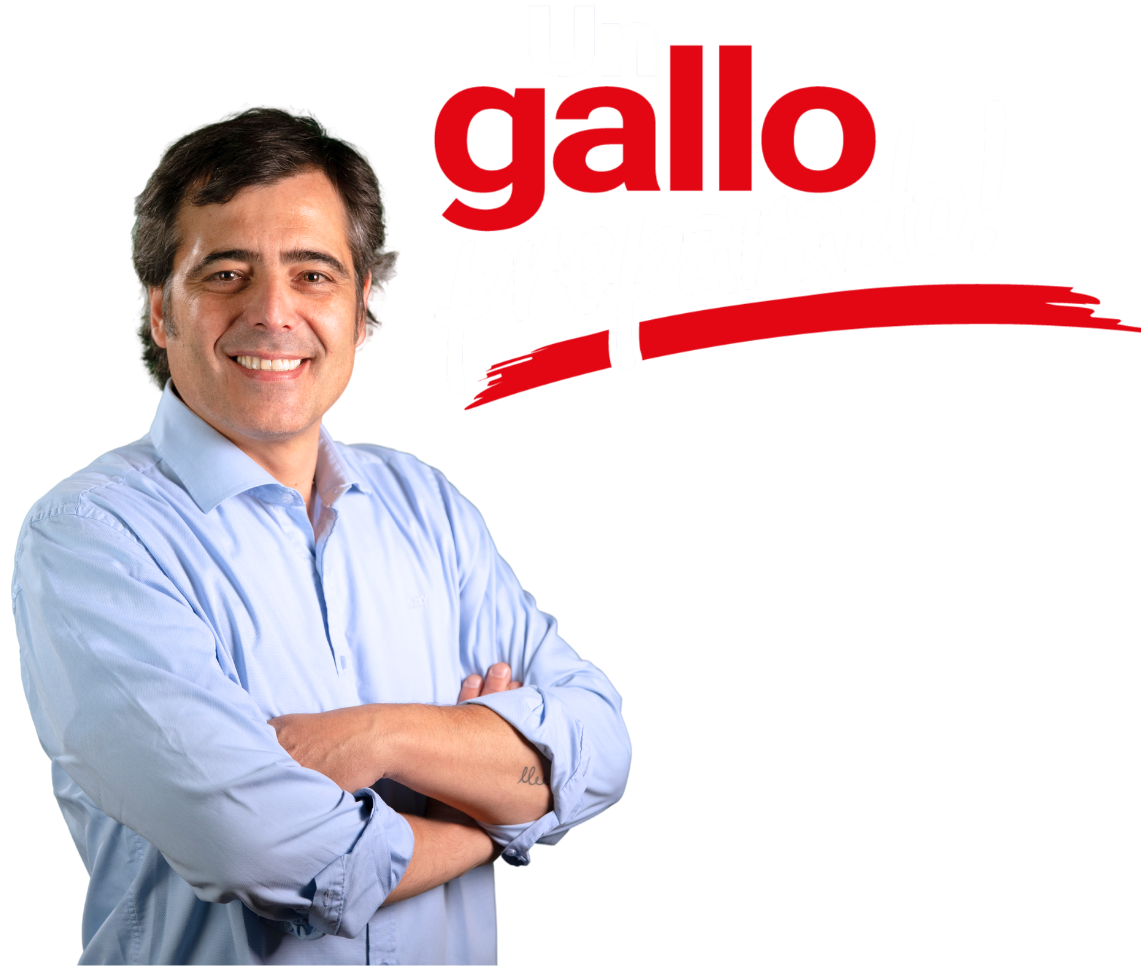
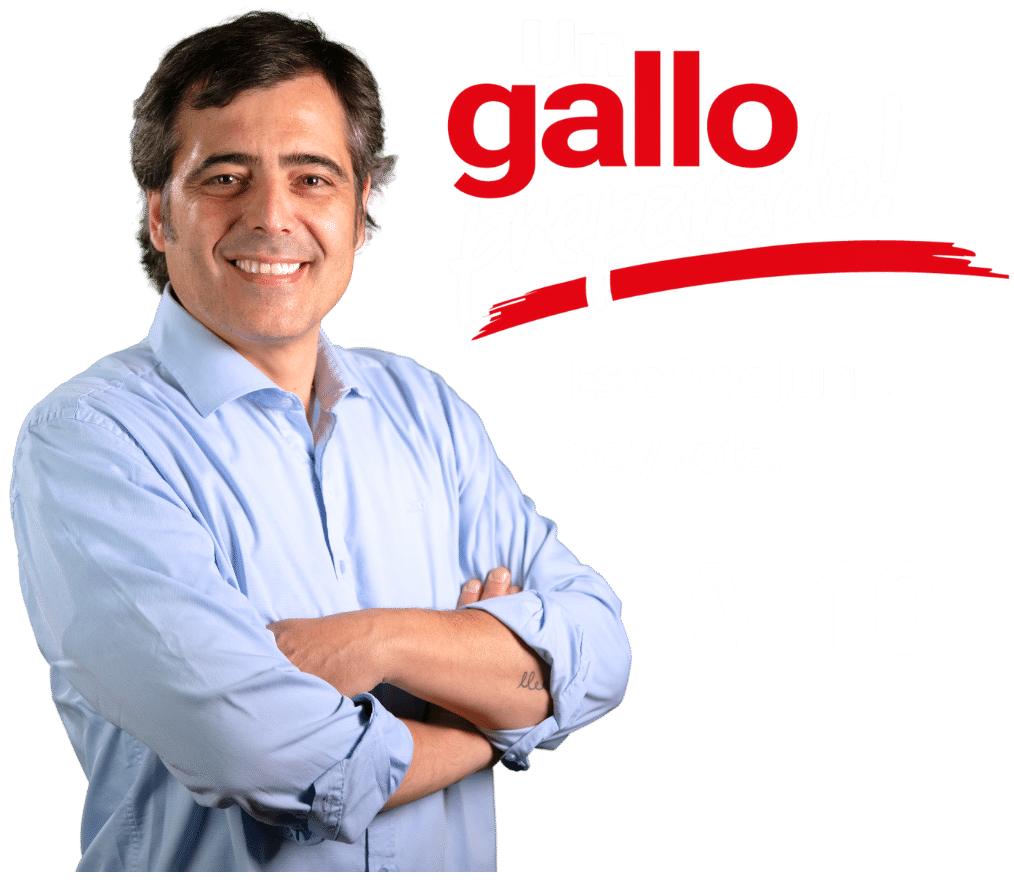
hero beta

diff --git a/apps/sebastian/src/app/components/hero.tsx b/apps/sebastian/src/app/components/hero.tsx
@@ -4,25 +4,25 @@ import Video from './VIdeo';
 
 export default function Hero() {
   return (
-    <div className="bg-blueprimary ">
+    <div className="bg-[#282b6a] ">
       <div className="flex justify-center">
         <Image
           src="/images/fotosebastian.png"
           width={500}
           height={500}
           alt="Picture of the author"
-          className="pt-10 lg:w-5/12 animate-fade-up animate-once animate-duration-[2000ms]"
+          className="p-6 lg:w-5/12 animate-fade-up animate-once animate-duration-[2000ms]"
         />
       </div>
 
       <div className="flex justify-center flex-col">
-        <div className="flex space-x-10 justify-center items-center mb-14">
+        <div className="flex space-x-10 justify-center items-center mt-12">
           <a
             href="#"
             className="block  text-gray-900 transition-all duration-500 hover:text-indigo-600 "
           >
             <svg
-              className="w-[1.688rem] h-[1.688rem] text-redprimary"
+              className="w-12 h-12 text-white"
               xmlns="http://www.w3.org/2000/svg"
               viewBox="0 0 20 20"
               fill="none"
@@ -38,7 +38,7 @@ export default function Hero() {
             className="block  text-gray-900 transition-all duration-500 hover:text-indigo-600 "
           >
             <svg
-              className="w-[1.688rem] h-[1.688rem] text-redprimary "
+              className="w-12 h-12 text-white "
               viewBox="0 0 29 29"
               fill="none"
               xmlns="http://www.w3.org/2000/svg"
@@ -54,7 +54,7 @@ export default function Hero() {
             className="block  text-gray-900 transition-all duration-500 hover:text-indigo-600 "
           >
             <svg
-              className="w-[0.938rem] h-[1.625rem] text-redprimary"
+              className="w-12 h-12 text-white"
               viewBox="0 0 15 26"
               fill="none"
               xmlns="http://www.w3.org/2000/svg"
@@ -70,7 +70,7 @@ export default function Hero() {
             className="block  text-gray-900 transition-all duration-500 hover:text-indigo-600 "
           >
             <svg
-              className="w-[1.875rem] h-[1.375rem] text-redprimary"
+              className="w-12 h-12 text-white"
               viewBox="0 0 30 22"
               fill="none"
               xmlns="http://www.w3.org/2000/svg"
@@ -84,22 +84,25 @@ export default function Hero() {
             </svg>
           </a>
         </div>
-        <Link
-          href="#linkscroll"
-          className="p-2 rounded-lg px-14 mt-12  border-4 font-bold hover:bg-redprimary flex hover:text-white  border-redprimary font-arial text-blueprimary animate-fade-up animate-once animate-duration-[2000ms]"
-        >
-          <svg
-            xmlns="http://www.w3.org/2000/svg"
-            className="w-[1.5rem] h-[1.5rem] mr-2"
-            viewBox="0 0 384 512"
+
+        <div className="flex justify-center">
+          <Link
+            href="#linkscroll"
+            className=" w-60 p-4 my-14  border-4 font-bold hover:bg-white hover:border-redprimary flex hover:text-redprimary  border-white font-arial text-white animate-fade-up animate-once animate-duration-[2000ms]"
           >
-            <path
-              fill="#4b76ba"
-              d="M369.9 97.9L286 14C277 5 264.8-.1 252.1-.1H48C21.5 0 0 21.5 0 48v416c0 26.5 21.5 48 48 48h288c26.5 0 48-21.5 48-48V131.9c0-12.7-5.1-25-14.1-34zM332.1 128H256V51.9l76.1 76.1zM48 464V48h160v104c0 13.3 10.7 24 24 24h104v288H48zm250.2-143.7c-12.2-12-47-8.7-64.4-6.5-17.2-10.5-28.7-25-36.8-46.3 3.9-16.1 10.1-40.6 5.4-56-4.2-26.2-37.8-23.6-42.6-5.9-4.4 16.1-.4 38.5 7 67.1-10 23.9-24.9 56-35.4 74.4-20 10.3-47 26.2-51 46.2-3.3 15.8 26 55.2 76.1-31.2 22.4-7.4 46.8-16.5 68.4-20.1 18.9 10.2 41 17 55.8 17 25.5 0 28-28.2 17.5-38.7zm-198.1 77.8c5.1-13.7 24.5-29.5 30.4-35-19 30.3-30.4 35.7-30.4 35zm81.6-190.6c7.4 0 6.7 32.1 1.8 40.8-4.4-13.9-4.3-40.8-1.8-40.8zm-24.4 136.6c9.7-16.9 18-37 24.7-54.7 8.3 15.1 18.9 27.2 30.1 35.5-20.8 4.3-38.9 13.1-54.8 19.2zm131.6-5s-5 6-37.3-7.8c35.1-2.6 40.9 5.4 37.3 7.8z"
-            />
-          </svg>
-          Bases del Programa
-        </Link>
+            <svg
+              xmlns="http://www.w3.org/2000/svg"
+              className="w-[1.5rem] h-[1.5rem] mr-2"
+              viewBox="0 0 384 512"
+            >
+              <path
+                fill="#4b76ba"
+                d="M369.9 97.9L286 14C277 5 264.8-.1 252.1-.1H48C21.5 0 0 21.5 0 48v416c0 26.5 21.5 48 48 48h288c26.5 0 48-21.5 48-48V131.9c0-12.7-5.1-25-14.1-34zM332.1 128H256V51.9l76.1 76.1zM48 464V48h160v104c0 13.3 10.7 24 24 24h104v288H48zm250.2-143.7c-12.2-12-47-8.7-64.4-6.5-17.2-10.5-28.7-25-36.8-46.3 3.9-16.1 10.1-40.6 5.4-56-4.2-26.2-37.8-23.6-42.6-5.9-4.4 16.1-.4 38.5 7 67.1-10 23.9-24.9 56-35.4 74.4-20 10.3-47 26.2-51 46.2-3.3 15.8 26 55.2 76.1-31.2 22.4-7.4 46.8-16.5 68.4-20.1 18.9 10.2 41 17 55.8 17 25.5 0 28-28.2 17.5-38.7zm-198.1 77.8c5.1-13.7 24.5-29.5 30.4-35-19 30.3-30.4 35.7-30.4 35zm81.6-190.6c7.4 0 6.7 32.1 1.8 40.8-4.4-13.9-4.3-40.8-1.8-40.8zm-24.4 136.6c9.7-16.9 18-37 24.7-54.7 8.3 15.1 18.9 27.2 30.1 35.5-20.8 4.3-38.9 13.1-54.8 19.2zm131.6-5s-5 6-37.3-7.8c35.1-2.6 40.9 5.4 37.3 7.8z"
+              />
+            </svg>
+            Ver Programa de Gobierno
+          </Link>
+        </div>
       </div>
     </div>
   );

diff --git a/apps/sebastian/src/app/page.tsx b/apps/sebastian/src/app/page.tsx
@@ -21,13 +21,13 @@ export default function Index() {
         className="fixed top-0 z-50 lg:w-32 md:w-32 right-8 lg:right-24 shadow-gray-700 shadow-md"
       />
 
-      <div className="w-100 bg-blueprimary flex m-0  justify-center mt-16 animate-fade animate-once animate-duration-[4000ms]">
+      <div className="w-100 bg-[#282b6a] flex m-0  justify-center pt-12 ">
         <Image
           src="/images/bannernombre.png"
           width={500}
           height={200}
           alt="Picture of the author"
-          className=" m-auto p-1 lg:w-2/5"
+          className=" m-auto p-1 lg:w-2/5 animate-fade animate-once animate-duration-[4000ms]"
         />
       </div>
       <Hero></Hero>
